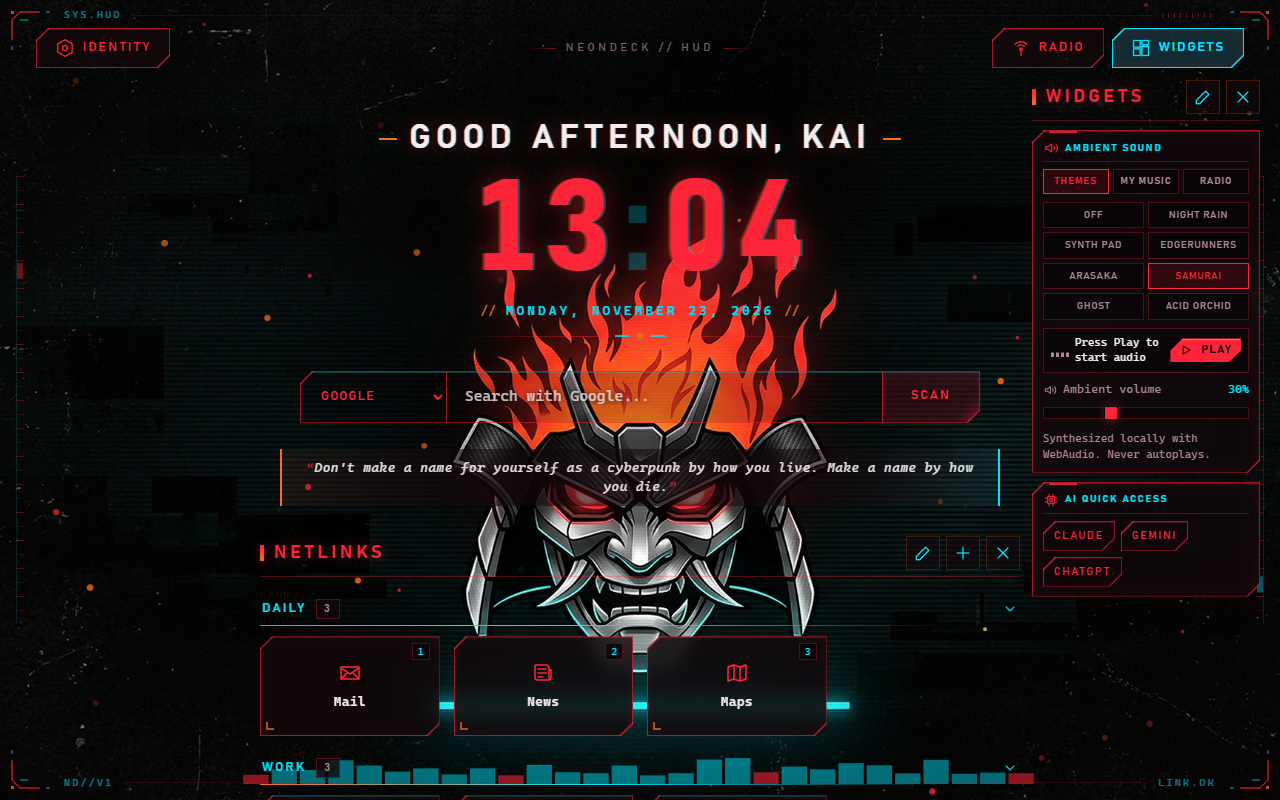
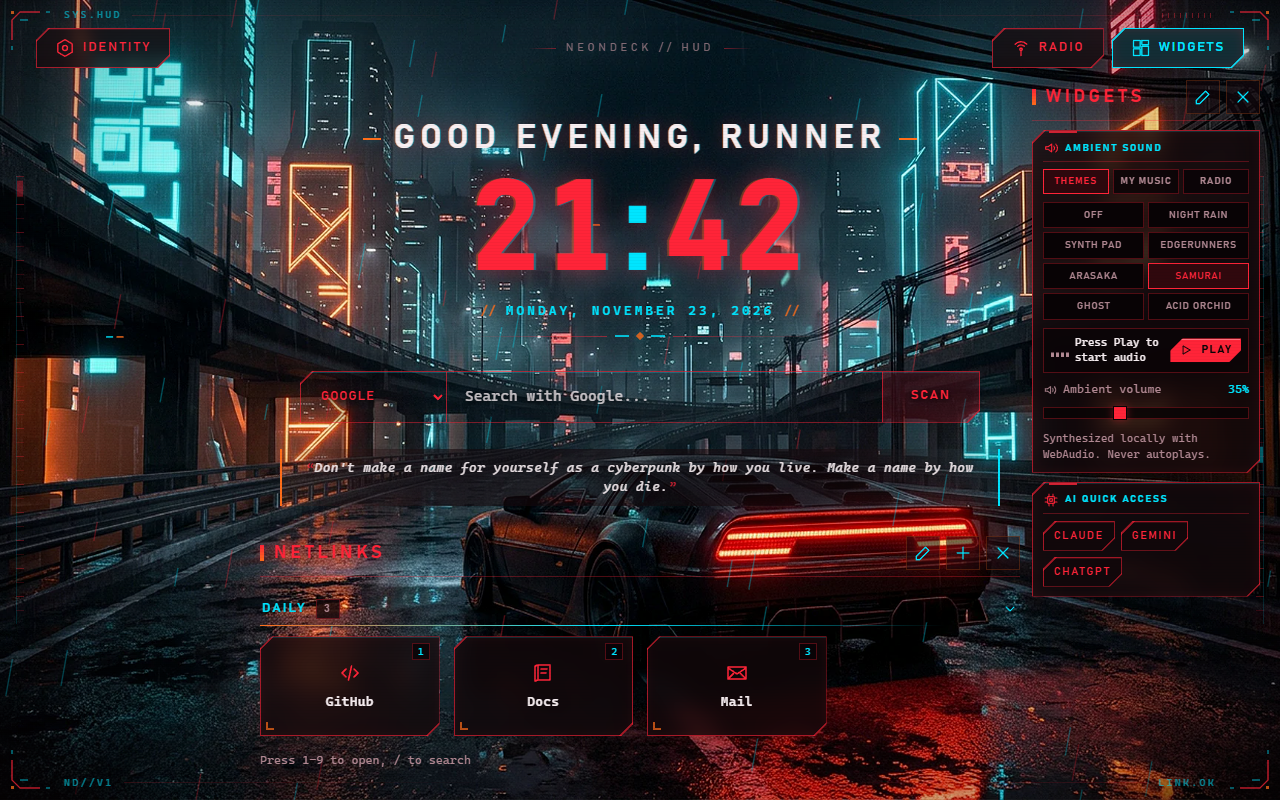
README: 1.0.0 cover, theme showcase and screenshot gallery

diff --git a/README.md b/README.md
@@ -1,5 +1,7 @@
 # NEONDECK
 
+![NEONDECK 1.0: cyberpunk HUD new tab](docs/store/web/og-neondeck-1.0.png)
+
 [![CI](https://github.com/Kurogrid/neondeck-extension/actions/workflows/ci.yml/badge.svg)](https://github.com/Kurogrid/neondeck-extension/actions/workflows/ci.yml) [![License: MIT](https://img.shields.io/badge/license-MIT-c6ff3d.svg)](LICENSE)
 
 A cyberpunk HUD new tab dashboard for Firefox and Chrome: big clock, multi-engine search, netlinks with keyboard shortcuts, and a side panel of focus widgets. Private by design: no account, no tracking, no remote code.
@@ -16,6 +18,16 @@ _Türkçe özet aşağıda._
 - **Sound**: optional UI sounds and an ambient widget (rain, synth pad), synthesized locally with WebAudio, never autoplays.
 - **Data**: everything stays in local extension storage; JSON export/import (also imports exports from the Cyberstart extension).
 - **Languages**: English, Turkish.
+
+## Screenshots
+![The five NEONDECK themes: Edgerunners, Samurai, Arasaka, Ghost and Acid Orchid](docs/store/web/hero-themes-showcase.png)
+
+| | |
+|---|---|
+| ![Edgerunners theme: neon rooftop, weather and Pomodoro](docs/store/screenshots/01-edgerunners.png) | ![Arasaka theme: red radar HUD, world clock, tasks and habits](docs/store/screenshots/02-arasaka.png) |
+| ![Samurai theme with theme music in the ambient sound widget](docs/store/screenshots/03-samurai.png) | ![Ghost theme: scratchpad and Pomodoro](docs/store/screenshots/04-ghost.png) |
+| ![Acid Orchid theme: weather and world clock](docs/store/screenshots/05-orchid.png) | ![Settings: five themes and live wallpapers](docs/store/screenshots/06-settings.png) |
+| ![Widget manager: drag and drop to reorder](docs/store/screenshots/07-widgets.png) | |
 
 ## Install
 - **Firefox**: [NEONDECK on Firefox Add-ons](https://addons.mozilla.org/firefox/addon/neondeck/).
